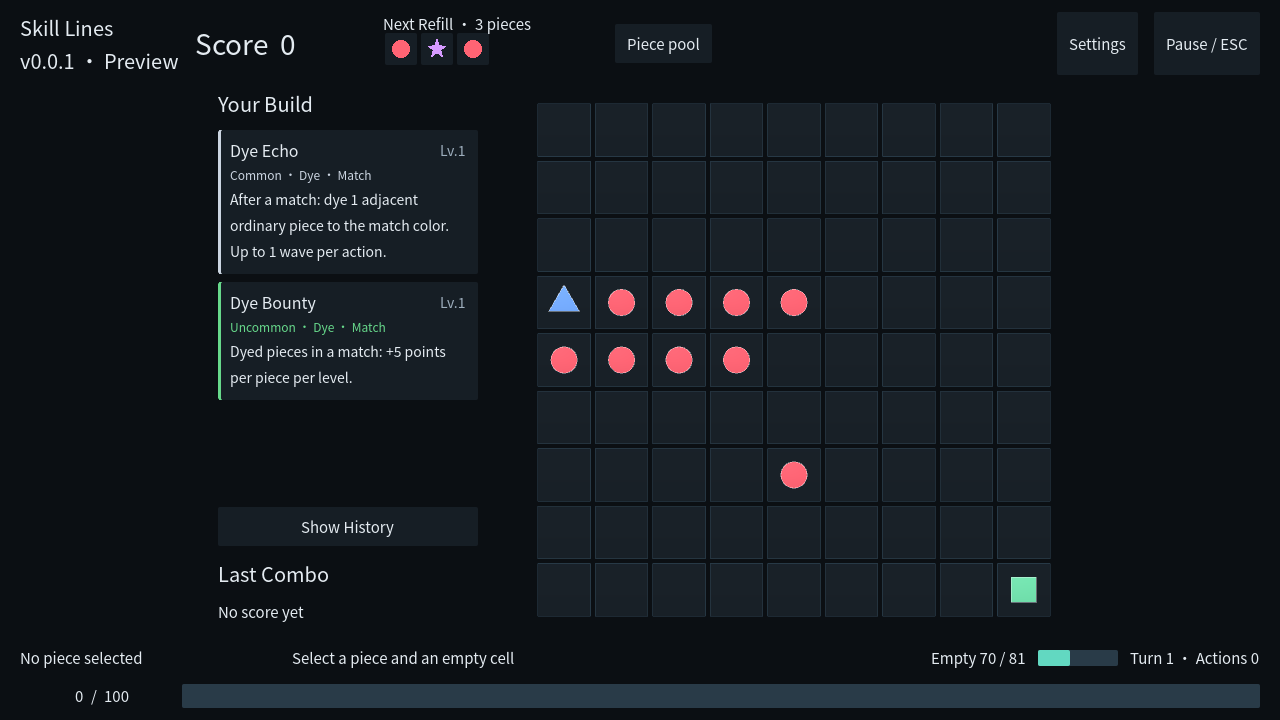
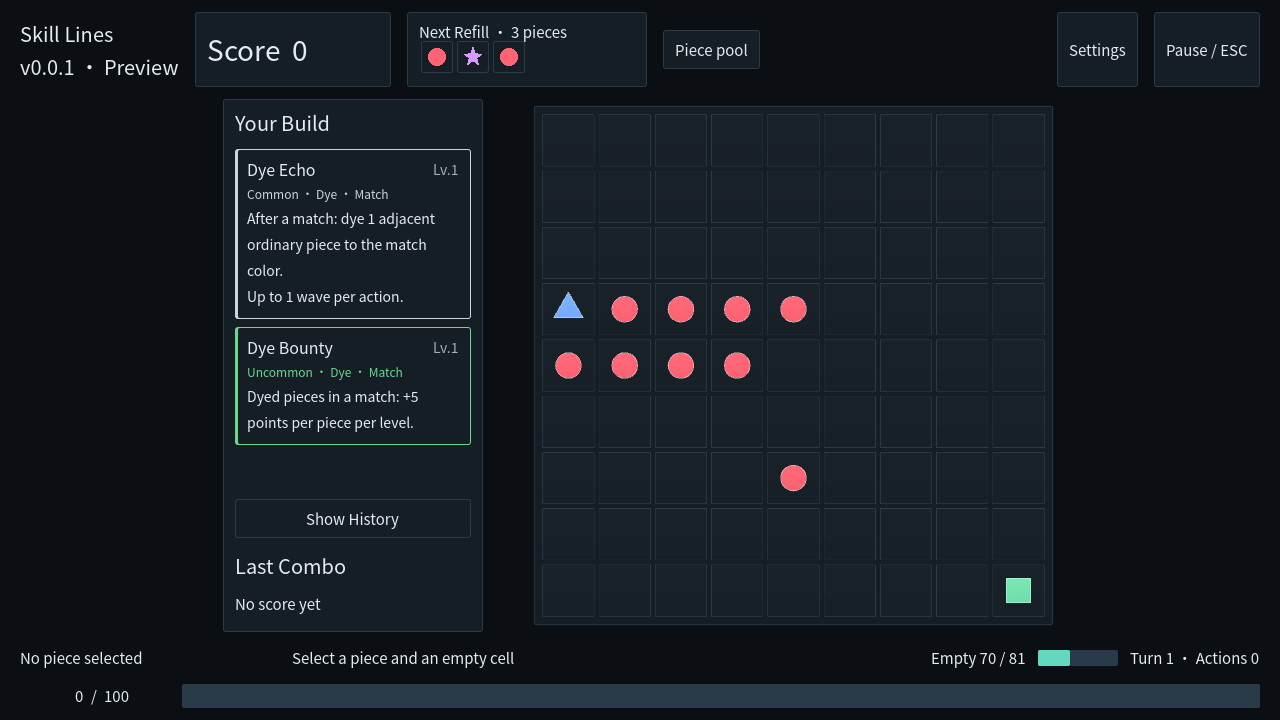
补回两套主题的面板按钮与卡牌轮廓 (#29)

diff --git a/docs/game_themes.md b/docs/game_themes.md
@@ -21,6 +21,8 @@
 
 ## 实机对照与 review
 
+试玩反馈修订：补回顶部总分/补棋预告、左信息栏和棋盘的底板与细边框；按钮在未聚焦时也有1px轮廓，技能卡普通态1px、选中态2px，保留顶部稀有度色条。HUD面板通过场景的 `HudPanel` 主题类型变体选择样式；棋盘底板由 BoardView 在棋子下方绘制，避免高层 HUD 遮挡棋子。以下截图已更新。相关主题/布局/选卡/HUD回归31项通过，包括两主题普通态框体断言。
+
 截图来自 Compatibility 渲染，主界面种子7、`fixture_dye`；特殊状态使用 `fixture_line_cross`。都是确定性展示夹具，不能作为真人平衡数据。截图工具：`tools/ux_capture/game_theme_capture.tscn`，输出 `.godot/issue29_captures`，不参与正式导出。
 
 | 内容 | 明亮玩具 | 深色仪表 |
